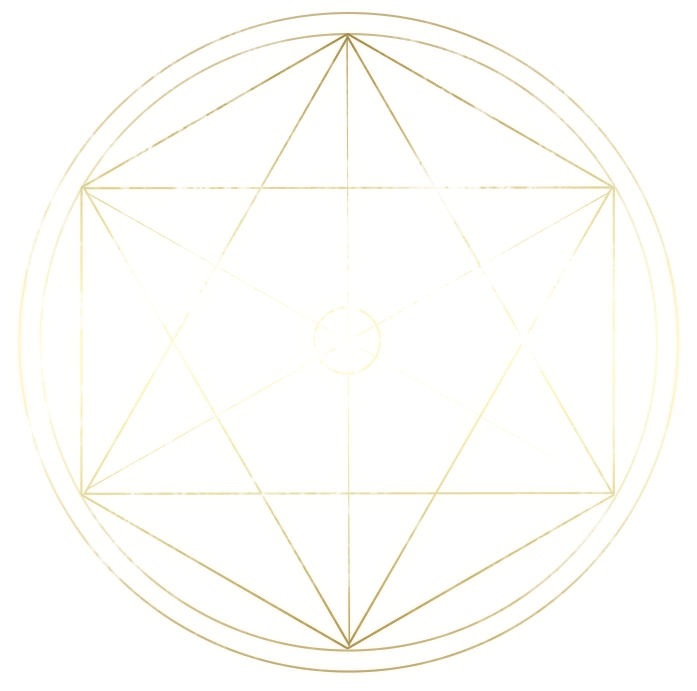
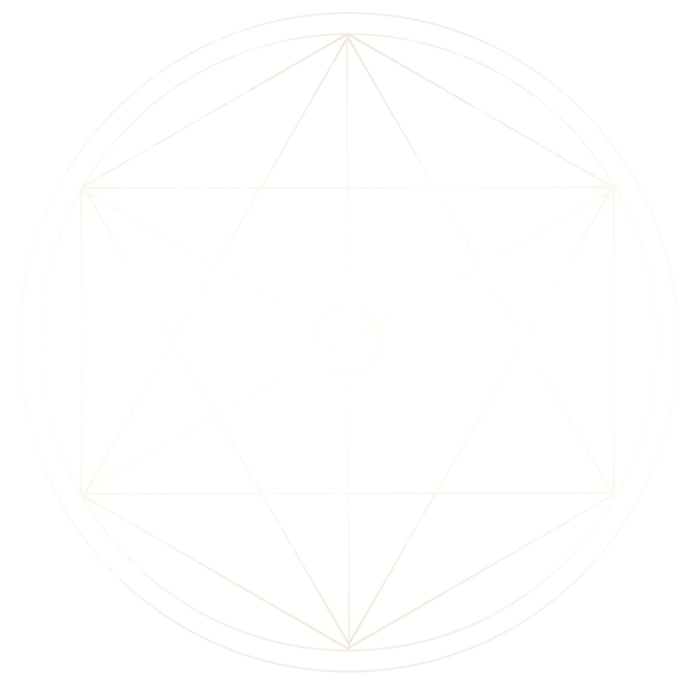
背景

diff --git a/node/chat/public/css/style.less b/node/chat/public/css/style.less
@@ -81,6 +81,20 @@
     border-radius: 5px;
     background-color: rgba(255, 123, 123, 0.8);
 }
+.hex {
+    position: fixed;
+    top: 100px;
+    width: 80%;
+
+    img {
+        transform-origin: center;
+
+        @animate: rotation 20s linear infinite forwards;
+
+        -webkit-animation: @animate;
+                animation: @animate;
+    }
+}
 
 
 .m-log {
@@ -279,9 +293,18 @@
                 transform: rotateY(100deg);
     }
 }
+.rotation {
+    to {
+        -webkit-transform: rotateZ(360deg);
+                transform: rotateZ(360deg);
+    }
+}
 
 @-webkit-keyframes rolling { .rolling }
         @keyframes rolling { .rolling }
+
+@-webkit-keyframes rotation { .rotation }
+        @keyframes rotation { .rotation }
 
 
 /* media */
